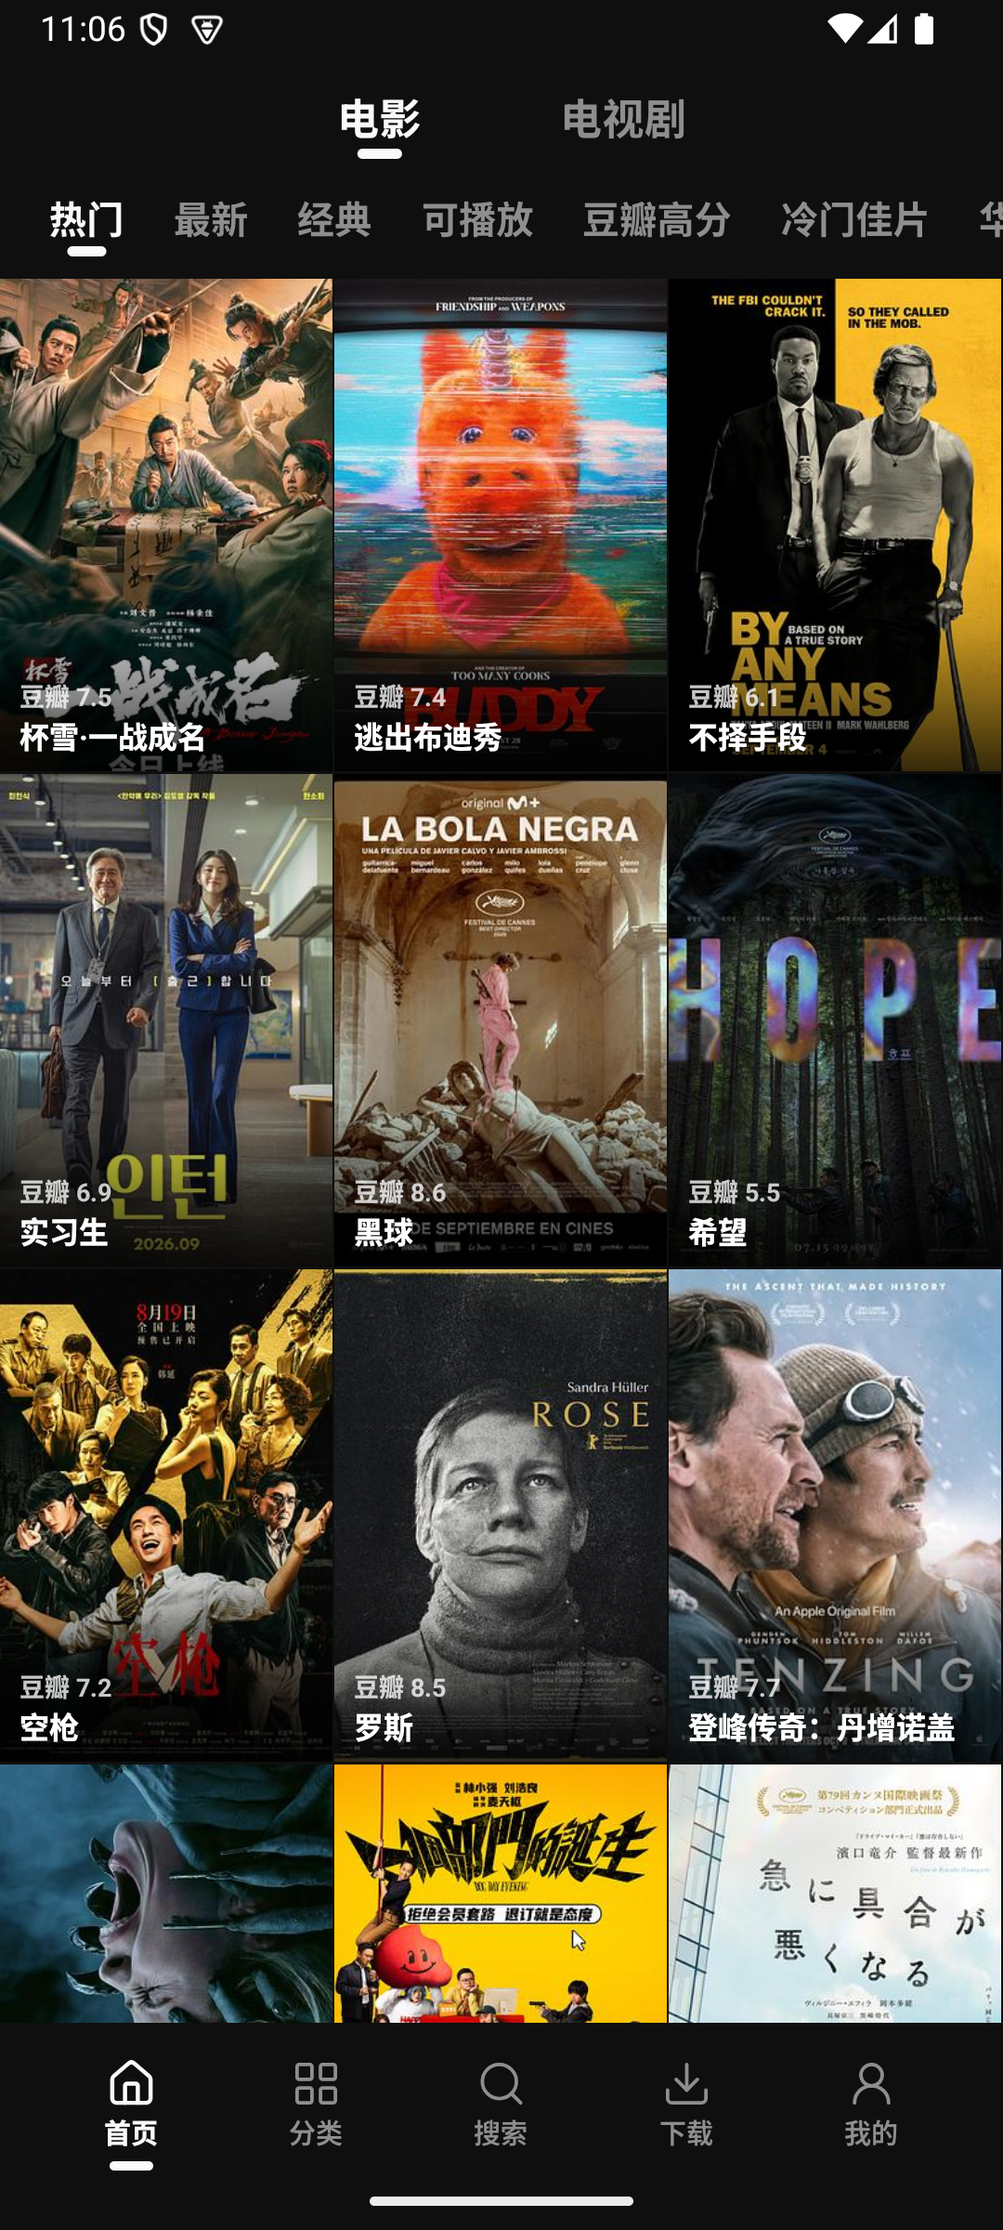
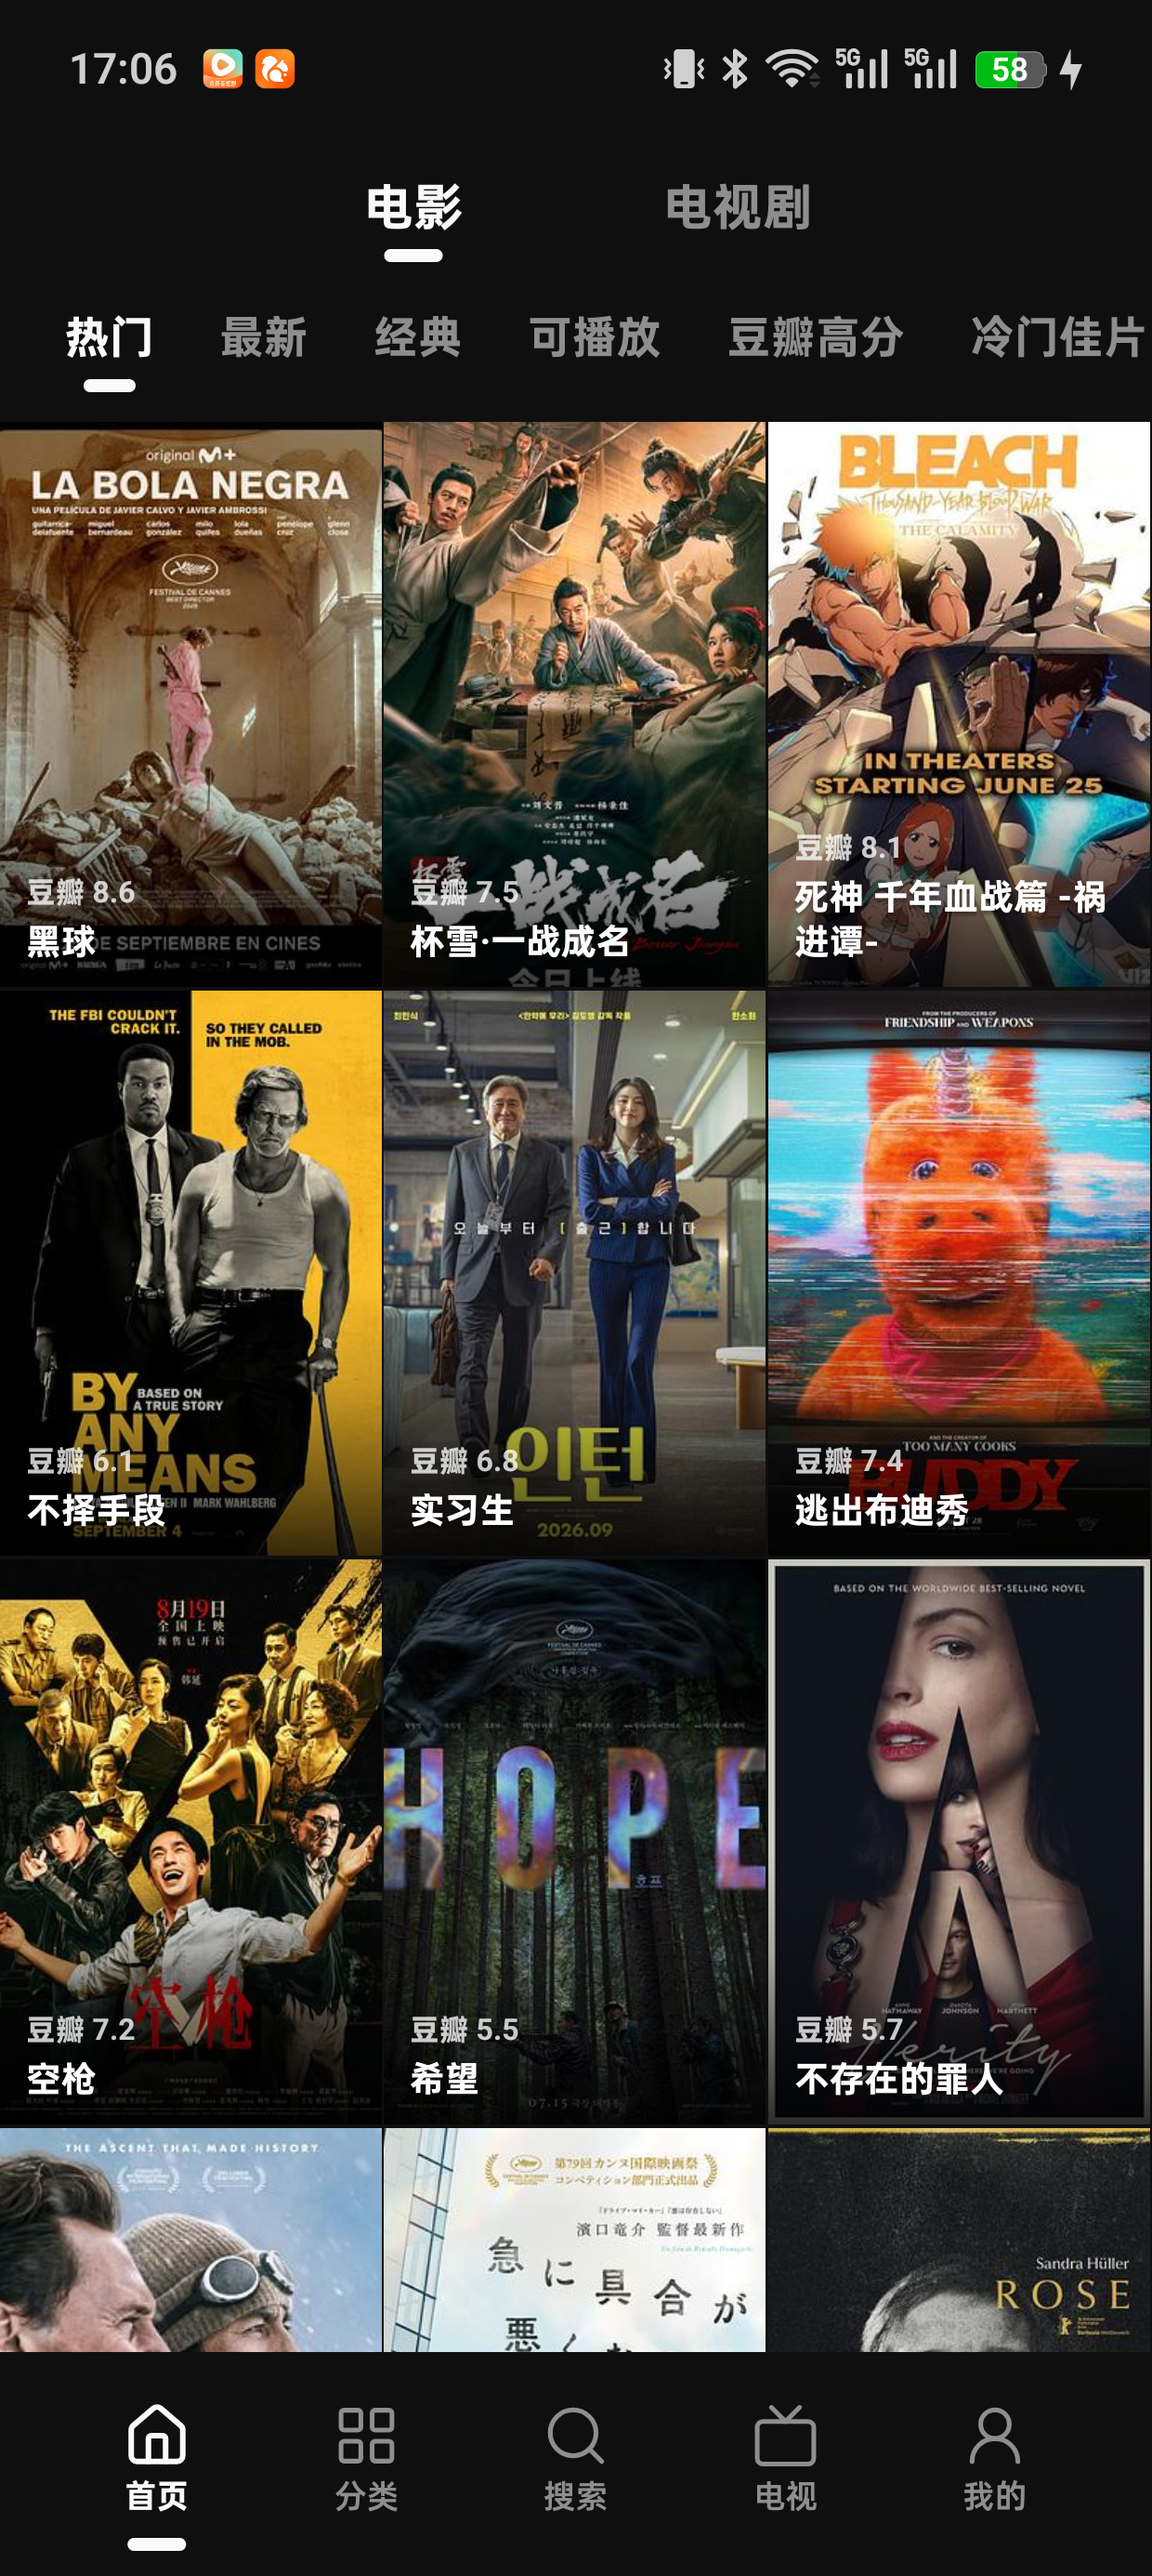
docs: recapture screenshots and add TV pages
- Verify each page before capture
- Add TV, online library, live source management screenshots
- Remove top margin from library search

diff --git a/src/app/(tabs)/tv.tsx b/src/app/(tabs)/tv.tsx
@@ -794,7 +794,7 @@ const styles = StyleSheet.create({
   },
   librarySearchWrap: {
     marginHorizontal: 16,
-    marginTop: 10,
+    marginTop: 0,
     height: 38,
     borderRadius: 0,
     paddingHorizontal: 12,

diff --git a/README.md b/README.md
@@ -3,16 +3,18 @@
 | 首页 | 分类 | 搜索 |
 | :---: | :---: | :---: |
 | <a href="./docs/images/01-home.png"><img src="./docs/images/01-home.png" alt="首页" width="260"></a> | <a href="./docs/images/02-categories.png"><img src="./docs/images/02-categories.png" alt="分类" width="260"></a> | <a href="./docs/images/03-search.png"><img src="./docs/images/03-search.png" alt="搜索" width="260"></a> |
-| **下载** | **我的** | **我的收藏** |
-| <a href="./docs/images/04-downloads.png"><img src="./docs/images/04-downloads.png" alt="下载" width="260"></a> | <a href="./docs/images/05-my.png"><img src="./docs/images/05-my.png" alt="我的" width="260"></a> | <a href="./docs/images/06-favorites.png"><img src="./docs/images/06-favorites.png" alt="我的收藏" width="260"></a> |
-| **搜索历史** | **观看历史** | **观看历史详情** |
-| <a href="./docs/images/07-search-history.png"><img src="./docs/images/07-search-history.png" alt="搜索历史" width="260"></a> | <a href="./docs/images/08-watch-history.png"><img src="./docs/images/08-watch-history.png" alt="观看历史" width="260"></a> | <a href="./docs/images/09-watch-history-folder.png"><img src="./docs/images/09-watch-history-folder.png" alt="观看历史详情" width="260"></a> |
-| **我的下载** | **设置** | **搜索结果** |
-| <a href="./docs/images/10-my-downloads.png"><img src="./docs/images/10-my-downloads.png" alt="我的下载" width="260"></a> | <a href="./docs/images/11-settings.png"><img src="./docs/images/11-settings.png" alt="设置" width="260"></a> | <a href="./docs/images/12-search-results.png"><img src="./docs/images/12-search-results.png" alt="搜索结果" width="260"></a> |
-| **影视详情** | **播放器** | **全站点搜索** |
-| <a href="./docs/images/13-detail.png"><img src="./docs/images/13-detail.png" alt="影视详情" width="260"></a> | <a href="./docs/images/14-player.png"><img src="./docs/images/14-player.png" alt="播放器" width="260"></a> | <a href="./docs/images/15-aggregate-search.png"><img src="./docs/images/15-aggregate-search.png" alt="全站点搜索" width="260"></a> |
-| **站点管理** | **添加站点** | **下载详情** |
-| <a href="./docs/images/16-sites.png"><img src="./docs/images/16-sites.png" alt="站点管理" width="260"></a> | <a href="./docs/images/17-site-edit.png"><img src="./docs/images/17-site-edit.png" alt="添加站点" width="260"></a> | <a href="./docs/images/18-download-folder.png"><img src="./docs/images/18-download-folder.png" alt="下载详情" width="260"></a> |
+| **电视 · 我的直播源** | **在线频道库** | **我的** |
+| <a href="./docs/images/04-tv.png"><img src="./docs/images/04-tv.png" alt="电视 · 我的直播源" width="260"></a> | <a href="./docs/images/05-tv-library.png"><img src="./docs/images/05-tv-library.png" alt="在线频道库" width="260"></a> | <a href="./docs/images/06-my.png"><img src="./docs/images/06-my.png" alt="我的" width="260"></a> |
+| **我的收藏** | **观看历史** | **设置** |
+| <a href="./docs/images/07-favorites.png"><img src="./docs/images/07-favorites.png" alt="我的收藏" width="260"></a> | <a href="./docs/images/08-watch-history.png"><img src="./docs/images/08-watch-history.png" alt="观看历史" width="260"></a> | <a href="./docs/images/09-settings.png"><img src="./docs/images/09-settings.png" alt="设置" width="260"></a> |
+| **站点管理** | **添加站点** | **直播源管理** |
+| <a href="./docs/images/10-sites.png"><img src="./docs/images/10-sites.png" alt="站点管理" width="260"></a> | <a href="./docs/images/11-site-edit.png"><img src="./docs/images/11-site-edit.png" alt="添加站点" width="260"></a> | <a href="./docs/images/12-live-sources.png"><img src="./docs/images/12-live-sources.png" alt="直播源管理" width="260"></a> |
+| **添加直播源** | **影视详情** | **播放器** |
+| <a href="./docs/images/13-live-source-edit.png"><img src="./docs/images/13-live-source-edit.png" alt="添加直播源" width="260"></a> | <a href="./docs/images/13-detail.png"><img src="./docs/images/13-detail.png" alt="影视详情" width="260"></a> | <a href="./docs/images/14-player.png"><img src="./docs/images/14-player.png" alt="播放器" width="260"></a> |
+| **全站点搜索** | **搜索结果** | **搜索历史** |
+| <a href="./docs/images/15-aggregate-search.png"><img src="./docs/images/15-aggregate-search.png" alt="全站点搜索" width="260"></a> | <a href="./docs/images/12-search-results.png"><img src="./docs/images/12-search-results.png" alt="搜索结果" width="260"></a> | <a href="./docs/images/07-search-history.png"><img src="./docs/images/07-search-history.png" alt="搜索历史" width="260"></a> |
+| **观看历史详情** | **我的下载** | **下载详情** |
+| <a href="./docs/images/09-watch-history-folder.png"><img src="./docs/images/09-watch-history-folder.png" alt="观看历史详情" width="260"></a> | <a href="./docs/images/10-my-downloads.png"><img src="./docs/images/10-my-downloads.png" alt="我的下载" width="260"></a> | <a href="./docs/images/18-download-folder.png"><img src="./docs/images/18-download-folder.png" alt="下载详情" width="260"></a> |
 
 ---
 
